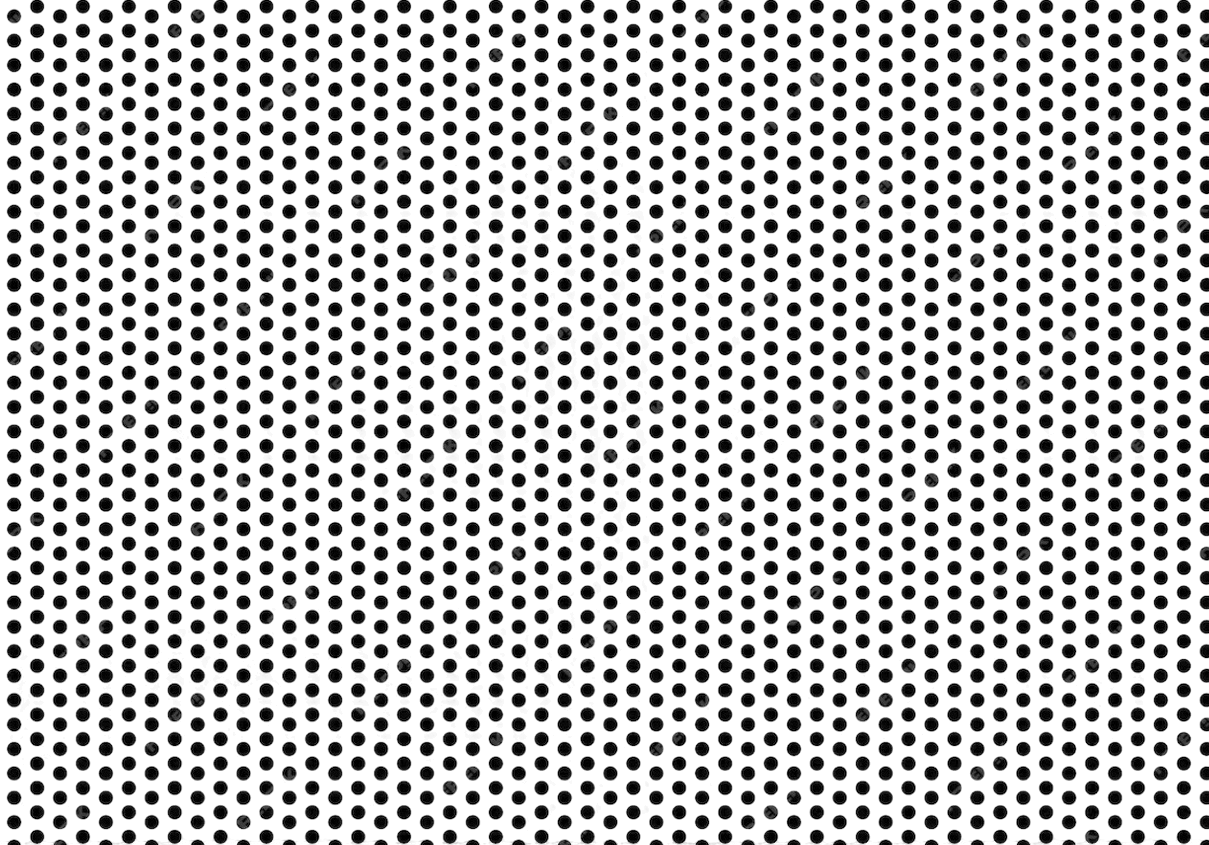
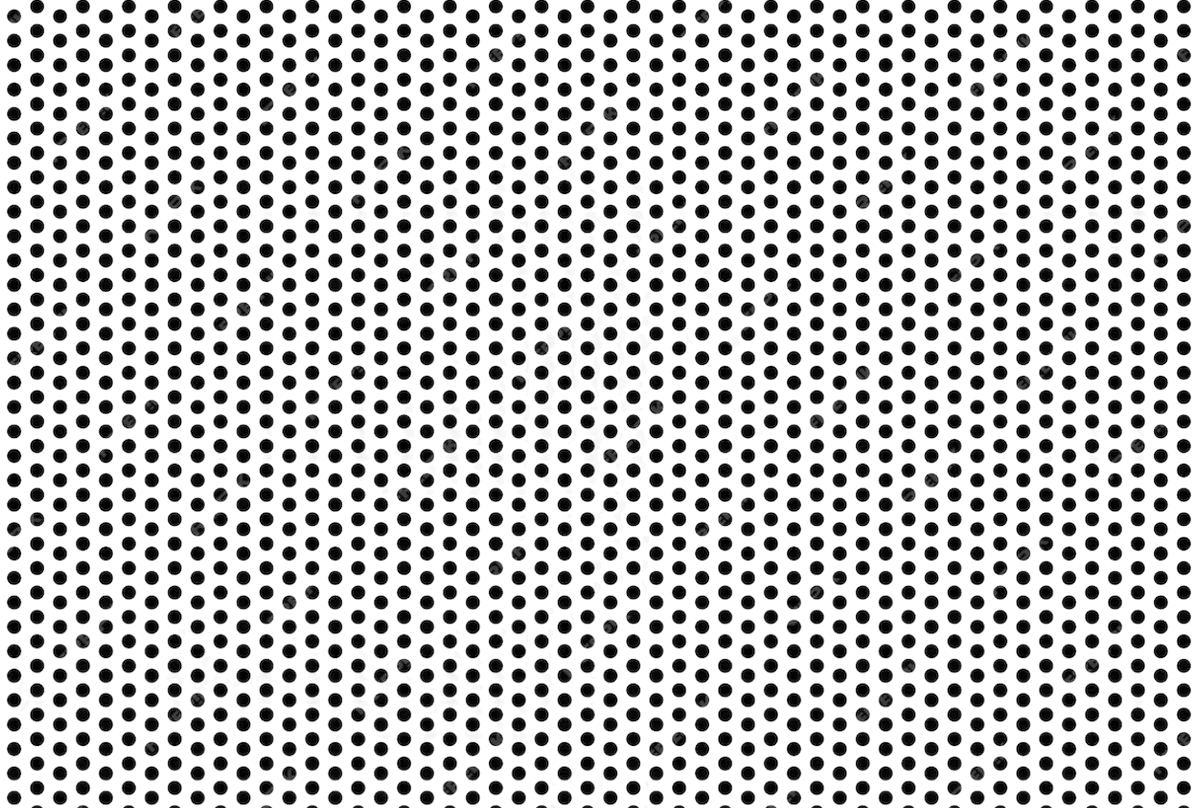
1

diff --git a/styles/style.css b/styles/style.css
@@ -29,7 +29,7 @@
 }
 
 .oscar-best-picture .featured-image::before {
-    content: "";
+        content: "";
     display: block;
     width: 100%;
     height: 100%;
@@ -37,8 +37,9 @@
     top: 0;
     left: 0;
     background-image: url(https://shoneal.github.io/rollingstone-oscar-best-picture/images/dots.png);
-    background-size: cover;
-    background-repeat: no-repeat;
+    background-size: 35%;
+    z-index: 6;
+    opacity: .1;
 }
 
 .oscar-best-picture .figure {
@@ -103,7 +104,7 @@
 }
 
 .oscar-best-picture .figure div:nth-child(4) {
-  right: 20%;
+  left: 51%;
   z-index: 5;
 }
 